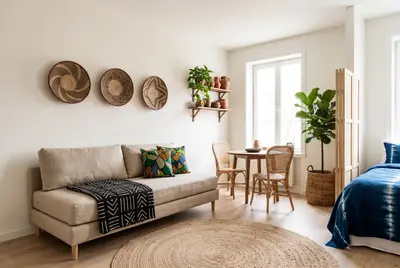
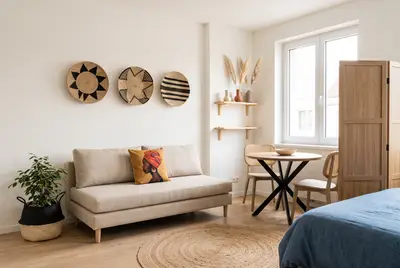
Six ambiances (entrée, cocooning, scandinave, Noël, réveillon, studio) : images régénérées à partir des vrais produits, points et textes ajustés ; noms corrigés (housse et plaid vert sauge, bougies champagne)

diff --git a/contenu/articles/studio-deco-africaine.md b/contenu/articles/studio-deco-africaine.md
@@ -7,7 +7,7 @@ pieces: [salon, chambre]
 matieres: [raphia-paniers, terre-cuite, wax, indigo]
 occasions: []
 image: studio-deco-africaine
-image_alt: "Petit studio lumineux : banquette en lin avec coussins en wax et jeté bogolan, trois paniers tressés accrochés au mur, étagère murale avec poteries en terre cuite et plante, table ronde et deux chaises en rotin près de la fenêtre, ficus dans un panier, paravent en bois devant un lit au couvre-lit indigo et tapis rond en jute."
+image_alt: "Petit studio lumineux : banquette en lin avec coussin à portrait de femme africaine, trois paniers tressés à motifs noirs au mur, étagères en pin avec trois petits vases aux tons de terre et de la pampa, table ronde aux pieds noirs croisés et deux chaises au dossier canné, plante dans un panier noir et naturel, paravent en bois clair, lit au couvre-lit bleu denim et tapis rond en jute."
 image_ia: true
 produits:
   - assiettes-murales-tressees
@@ -21,16 +21,16 @@ produits:
   - housse-couette-coton-denim
   - tapis-jute-rond
 hotspots:
-  - { produit: assiettes-murales-tressees, x: 29, y: 33 }
-  - { produit: etageres-flottantes-pin-lot-3, x: 53, y: 41 }
-  - { produit: vases-argile-lot-3, x: 56, y: 31 }
-  - { produit: coussin-wax-cercles-safran, x: 39, y: 61 }
-  - { produit: table-ronde-2-personnes-chene, x: 62, y: 58 }
-  - { produit: chaises-dossier-rotin-lot-2, x: 68, y: 66 }
-  - { produit: panier-plante-tresse-rayures, x: 80, y: 71 }
-  - { produit: paravent-bois-3-panneaux, x: 87, y: 47 }
-  - { produit: housse-couette-coton-denim, x: 93, y: 80 }
-  - { produit: tapis-jute-rond, x: 57, y: 92 }
+  - { produit: assiettes-murales-tressees, x: 34, y: 32 }
+  - { produit: coussin-wax-cercles-safran, x: 37, y: 62 }
+  - { produit: etageres-flottantes-pin-lot-3, x: 59, y: 48 }
+  - { produit: vases-argile-lot-3, x: 60, y: 35 }
+  - { produit: table-ronde-2-personnes-chene, x: 71, y: 67 }
+  - { produit: chaises-dossier-rotin-lot-2, x: 64, y: 58 }
+  - { produit: panier-plante-tresse-rayures, x: 10, y: 83 }
+  - { produit: paravent-bois-3-panneaux, x: 91, y: 47 }
+  - { produit: housse-couette-coton-denim, x: 83, y: 87 }
+  - { produit: tapis-jute-rond, x: 52, y: 92 }
 epingles:
   - "Déco africaine dans un petit studio"
   - "25 m² aux couleurs de l’Afrique"
@@ -48,7 +48,7 @@ Au sol, la place est précieuse ; les murs, eux, sont souvent vides. Accrochez-y
 
 ## 2. Une banquette qui fait tout
 
-Dans 25 m², le canapé doit aussi servir de lit d’appoint. Choisissez une banquette simple, dans un tissu uni et clair, et apportez la couleur avec **deux coussins en wax** et un jeté aux motifs bogolan. On change l’ambiance en changeant les textiles, sans racheter de meuble.
+Dans 25 m², le canapé doit aussi servir de lit d’appoint. Choisissez une banquette simple, dans un tissu uni et clair, et apportez la couleur avec **un coussin à imprimé africain**, ici un portrait aux couleurs chaudes. On change l’ambiance en changeant les textiles, sans racheter de meuble.
 
 ## 3. Un coin repas près de la fenêtre
 

diff --git a/contenu/articles/table-reveillon-wax-or.md b/contenu/articles/table-reveillon-wax-or.md
@@ -7,7 +7,7 @@ pieces: [cuisine-salle-a-manger]
 matieres: [wax]
 occasions: [fetes-fin-annee]
 image: table-reveillon-wax-or
-image_alt: "Table de réveillon en bois foncé : chemin de table en wax vert, rouge et or, sous-assiettes dorées et assiettes blanches, serviettes vertes, couverts dorés, verres à vin, grands bougeoirs dorés avec bougies ivoire, centre de table en eucalyptus et graminées, photophores dorés, sapin illuminé en arrière-plan."
+image_alt: "Table de réveillon en bois foncé : chemin de table en tissu wax vert, rouge et or, assiettes blanches, serviettes vert armée, couverts dorés, verres à vin, bougeoirs coniques dorés avec bougies couleur champagne, centre de table en eucalyptus, photophores dorés en verre mercurisé, sapin illuminé en arrière-plan."
 image_ia: true
 produits:
   - coupon-pagne-wax-180x120
@@ -21,15 +21,15 @@ produits:
   - eucalyptus-artificiel-lot-6
   - photophores-dores-lot-12
 hotspots:
-  - { produit: coupon-pagne-wax-180x120, x: 17, y: 80 }
-  - { produit: assiettes-porcelaine-blanches-lot-6, x: 56, y: 80 }
-  - { produit: serviettes-lin-melange-lot-12, x: 80, y: 73 }
-  - { produit: couverts-dores-24-pieces, x: 55, y: 86 }
-  - { produit: verres-vin-cristal-arques-lot-6, x: 82, y: 53 }
-  - { produit: bougeoirs-dores-coniques-lot-6, x: 67, y: 49 }
-  - { produit: bougies-tige-ivoire-lot-50, x: 35, y: 29 }
-  - { produit: eucalyptus-artificiel-lot-6, x: 47, y: 55 }
-  - { produit: photophores-dores-lot-12, x: 29, y: 61 }
+  - { produit: coupon-pagne-wax-180x120, x: 51, y: 87 }
+  - { produit: assiettes-porcelaine-blanches-lot-6, x: 15, y: 71 }
+  - { produit: serviettes-lin-melange-lot-12, x: 83, y: 67 }
+  - { produit: couverts-dores-24-pieces, x: 13, y: 78 }
+  - { produit: verres-vin-cristal-arques-lot-6, x: 69, y: 51 }
+  - { produit: bougeoirs-dores-coniques-lot-6, x: 45, y: 50 }
+  - { produit: bougies-tige-ivoire-lot-50, x: 45, y: 21 }
+  - { produit: eucalyptus-artificiel-lot-6, x: 50, y: 58 }
+  - { produit: photophores-dores-lot-12, x: 60, y: 75 }
 epingles:
   - "Une table de réveillon en wax et or"
   - "Noël africain : la table qui brille"
@@ -67,7 +67,7 @@ Au centre, un chemin de **branchages** : eucalyptus, graminées dorées, quelque
 
 ## 5. La lumière des bougies
 
-C’est la touche finale : de grandes **bougies ivoire** dans les bougeoirs, et de petites bougies dans les photophores tout le long de la table. Baissez les autres lumières : l’or et le wax brillent à la lueur des bougies.
+C’est la touche finale : de grandes **bougies à tige** couleur champagne dans les bougeoirs, et de petites bougies dans les photophores tout le long de la table. Baissez les autres lumières : l’or et le wax brillent à la lueur des bougies.
 
 ## En résumé
 

diff --git a/contenu/articles/salon-cocooning-ocre.md b/contenu/articles/salon-cocooning-ocre.md
@@ -7,11 +7,9 @@ pieces: [salon]
 matieres: [terre-cuite, raphia-paniers, bois-sculpte]
 occasions: []
 image: salon-cocooning-ocre
-image_alt: "Salon aux murs ocre dans une lumière de fin de journée : canapé en velours rouille avec coussins et plaid en grosse maille crème, table basse ronde en bois sculpté avec coupe en terre cuite et bougie, grande jarre avec branches séchées, lampadaire en rotin, pouf tressé et tapis en peau de mouton."
+image_alt: "Salon aux murs ocre dans une lumière de fin de journée : canapé en velours rouille, plaid vert sauge en grosse maille, tabouret en bois brut portant une coupe en terre cuite et des bougies, amphore avec branches de saule bouclées, tapis en peau de mouton beige, lampadaire à abat-jour en rotin et pouf tricoté moutarde."
 image_ia: true
 produits:
-  - housse-canape-velours-cotele
-  - coussin-wax-terracotta
   - plaid-tricot-chenille
   - coupe-terre-cuite-ronde
   - bougies-piliers-ivoire-lot-6
@@ -22,17 +20,15 @@ produits:
   - lampadaire-rotin-boheme
   - pouf-tricot-moutarde
 hotspots:
-  - { produit: jarre-terre-cuite-toscane, x: 11, y: 73 }
-  - { produit: branches-saule-sechees, x: 12, y: 41 }
-  - { produit: housse-canape-velours-cotele, x: 33, y: 67 }
-  - { produit: coussin-wax-terracotta, x: 68, y: 55 }
-  - { produit: plaid-tricot-chenille, x: 66, y: 72 }
-  - { produit: coupe-terre-cuite-ronde, x: 46, y: 70 }
-  - { produit: bougies-piliers-ivoire-lot-6, x: 53, y: 72 }
-  - { produit: tabouret-bois-sculpte, x: 50, y: 82 }
-  - { produit: tapis-peau-mouton-beige, x: 25, y: 91 }
-  - { produit: lampadaire-rotin-boheme, x: 82, y: 33 }
-  - { produit: pouf-tricot-moutarde, x: 88, y: 80 }
+  - { produit: jarre-terre-cuite-toscane, x: 14, y: 75 }
+  - { produit: branches-saule-sechees, x: 13, y: 41 }
+  - { produit: plaid-tricot-chenille, x: 68, y: 70 }
+  - { produit: coupe-terre-cuite-ronde, x: 35, y: 60 }
+  - { produit: bougies-piliers-ivoire-lot-6, x: 42, y: 60 }
+  - { produit: tabouret-bois-sculpte, x: 38, y: 80 }
+  - { produit: tapis-peau-mouton-beige, x: 25, y: 94 }
+  - { produit: lampadaire-rotin-boheme, x: 84, y: 21 }
+  - { produit: pouf-tricot-moutarde, x: 92, y: 73 }
 epingles:
   - "Salon cocooning aux couleurs de la terre"
   - "Ocre et terre cuite pour l’automne"

diff --git a/contenu/articles/noel-touche-africaine.md b/contenu/articles/noel-touche-africaine.md
@@ -7,7 +7,7 @@ pieces: [salon]
 matieres: [wax, raphia-paniers, perles]
 occasions: [fetes-fin-annee]
 image: noel-touche-africaine
-image_alt: "Salon de Noël : sapin décoré de guirlandes de perles en bois, d’étoiles en paille et de petites décorations en wax, pied caché dans un panier tressé, cadeaux emballés dans du tissu wax, couronne en rotin au mur, canapé avec coussin en wax et plaid, bougies sur la table basse."
+image_alt: "Salon de Noël : sapin décoré de guirlandes de perles en bois à pompons de jute, d’étoiles de paille et de guirlandes lumineuses, pied caché dans une collerette en osier, cadeaux emballés dans du tissu wax, couronne de saule brun au mur, canapé avec coussin à portrait de femme africaine et plaid vert sauge, bougies sur la table basse."
 image_ia: true
 produits:
   - sapin-artificiel-180
@@ -21,16 +21,16 @@ produits:
   - plaid-tricot-chenille
   - bougies-piliers-ivoire-lot-6
 hotspots:
-  - { produit: sapin-artificiel-180, x: 70, y: 58 }
-  - { produit: guirlande-perles-bois, x: 55, y: 33 }
-  - { produit: etoiles-paille-lot-16, x: 53, y: 49 }
-  - { produit: guirlande-lumineuse-20m, x: 47, y: 64 }
-  - { produit: cache-pied-sapin-rotin, x: 55, y: 81 }
-  - { produit: coupon-pagne-wax-180x120, x: 63, y: 88 }
-  - { produit: couronne-osier-30, x: 78, y: 24 }
-  - { produit: coussin-wax-cercles-safran, x: 15, y: 57 }
-  - { produit: plaid-tricot-chenille, x: 26, y: 62 }
-  - { produit: bougies-piliers-ivoire-lot-6, x: 9, y: 77 }
+  - { produit: sapin-artificiel-180, x: 72, y: 65 }
+  - { produit: guirlande-perles-bois, x: 58, y: 36 }
+  - { produit: etoiles-paille-lot-16, x: 62, y: 30 }
+  - { produit: guirlande-lumineuse-20m, x: 47, y: 67 }
+  - { produit: cache-pied-sapin-rotin, x: 55, y: 83 }
+  - { produit: coupon-pagne-wax-180x120, x: 64, y: 89 }
+  - { produit: couronne-osier-30, x: 83, y: 24 }
+  - { produit: coussin-wax-cercles-safran, x: 15, y: 58 }
+  - { produit: plaid-tricot-chenille, x: 28, y: 70 }
+  - { produit: bougies-piliers-ivoire-lot-6, x: 14, y: 84 }
 epingles:
   - "Un Noël aux couleurs de l’Afrique"
   - "Sapin en wax et paniers : le Noël qui change"

diff --git a/contenu/articles/salon-bogolan-bois-clair.md b/contenu/articles/salon-bogolan-bois-clair.md
@@ -7,12 +7,11 @@ pieces: [salon]
 matieres: [bogolan, bois-sculpte]
 occasions: []
 image: salon-bogolan-bois-clair
-image_alt: "Salon scandinave lumineux : canapé gris clair avec deux coussins bogolan noir et crème et un coussin en lin, bogolan encadré au mur, table basse en chêne clair avec vase noir, buffet en bois clair avec bol en bois et plante, lampadaire noir et tapis géométrique noir et blanc."
+image_alt: "Salon scandinave lumineux : canapé gris clair avec coussins mudcloth rouille et noir et coussins en lin beige, tissu bogolan encadré en chêne au mur, table d’appoint ronde bois et blanc avec vase noir rainuré, buffet à lattes en bois avec bol en manguier, lampadaire noir à abat-jour en lin et tapis tribal noir et ivoire."
 image_ia: true
 produits:
   - cadre-chene-a2
   - coussin-bogolan
-  - coussins-kuba-lot-4
   - coussins-lin-beige-lot-2
   - lampadaire-noir-abat-jour-lin
   - vase-ceramique-noir-mat
@@ -21,16 +20,15 @@ produits:
   - buffet-lattes
   - bol-manguier-sculpte
 hotspots:
-  - { produit: cadre-chene-a2, x: 51, y: 35 }
-  - { produit: coussin-bogolan, x: 33, y: 62 }
-  - { produit: coussins-lin-beige-lot-2, x: 41, y: 62 }
-  - { produit: coussins-kuba-lot-4, x: 68, y: 62 }
-  - { produit: lampadaire-noir-abat-jour-lin, x: 22, y: 37 }
-  - { produit: vase-ceramique-noir-mat, x: 45, y: 75 }
-  - { produit: table-basse-ronde-chene-clair, x: 60, y: 82 }
-  - { produit: tapis-motif-bogolan, x: 25, y: 95 }
-  - { produit: buffet-lattes, x: 87, y: 70 }
-  - { produit: bol-manguier-sculpte, x: 86, y: 55 }
+  - { produit: cadre-chene-a2, x: 39, y: 29 }
+  - { produit: coussin-bogolan, x: 29, y: 57 }
+  - { produit: coussins-lin-beige-lot-2, x: 38, y: 58 }
+  - { produit: lampadaire-noir-abat-jour-lin, x: 18, y: 32 }
+  - { produit: vase-ceramique-noir-mat, x: 57, y: 62 }
+  - { produit: table-basse-ronde-chene-clair, x: 57, y: 73 }
+  - { produit: buffet-lattes, x: 88, y: 65 }
+  - { produit: bol-manguier-sculpte, x: 87, y: 52 }
+  - { produit: tapis-motif-bogolan, x: 28, y: 94 }
 epingles:
   - "Le bogolan rencontre le style scandinave"
   - "Salon clair et bogolan : le duo réussi"

diff --git a/contenu/articles/entree-paniers-miroir-raphia.md b/contenu/articles/entree-paniers-miroir-raphia.md
@@ -7,7 +7,7 @@ pieces: [entree]
 matieres: [raphia-paniers, terre-cuite, bois-sculpte]
 occasions: []
 image: entree-paniers-miroir-raphia
-image_alt: "Entrée au mur ocre jaune : grand miroir rond encadré de raphia à franges, banc en bois sculpté avec un plaid rayé, deux paniers tressés remplis de chaussures, patères avec cabas et écharpe, jarre en terre cuite garnie de pampas, suspension tressée et tapis kilim."
+image_alt: "Entrée au mur ocre : miroir soleil en rotin, suspension en jute à trois étages, banc à chaussures en bambou avec plaid à losanges noir et crème et paniers en jonc de mer, patères rondes en chêne avec manteau et cabas, amphore en terre cuite garnie de pampa et tapis tissé taupe."
 image_ia: true
 produits:
   - miroir-soleil-rotin-58
@@ -20,15 +20,15 @@ produits:
   - pampa-sechee-bouquet
   - tapis-couloir-kilim-chindi
 hotspots:
-  - { produit: suspension-jute-boheme, x: 49, y: 7 }
-  - { produit: miroir-soleil-rotin-58, x: 39, y: 41 }
-  - { produit: pampa-sechee-bouquet, x: 18, y: 47 }
-  - { produit: jarre-terre-cuite-toscane, x: 19, y: 77 }
-  - { produit: banc-chaussures-bambou, x: 47, y: 68 }
-  - { produit: plaid-coton-rayures-creme, x: 58, y: 65 }
-  - { produit: paniers-rangement-raphia-lot, x: 41, y: 82 }
-  - { produit: pateres-chene-lot-4, x: 72, y: 28 }
-  - { produit: tapis-couloir-kilim-chindi, x: 45, y: 94 }
+  - { produit: suspension-jute-boheme, x: 50, y: 11 }
+  - { produit: miroir-soleil-rotin-58, x: 43, y: 38 }
+  - { produit: pampa-sechee-bouquet, x: 20, y: 52 }
+  - { produit: jarre-terre-cuite-toscane, x: 20, y: 80 }
+  - { produit: banc-chaussures-bambou, x: 36, y: 68 }
+  - { produit: plaid-coton-rayures-creme, x: 56, y: 70 }
+  - { produit: paniers-rangement-raphia-lot, x: 51, y: 82 }
+  - { produit: pateres-chene-lot-4, x: 67, y: 33 }
+  - { produit: tapis-couloir-kilim-chindi, x: 47, y: 96 }
 epingles:
   - "Une entrée chaleureuse en 3 objets africains"
   - "Miroir en raphia et paniers : l’entrée qui accueille"
